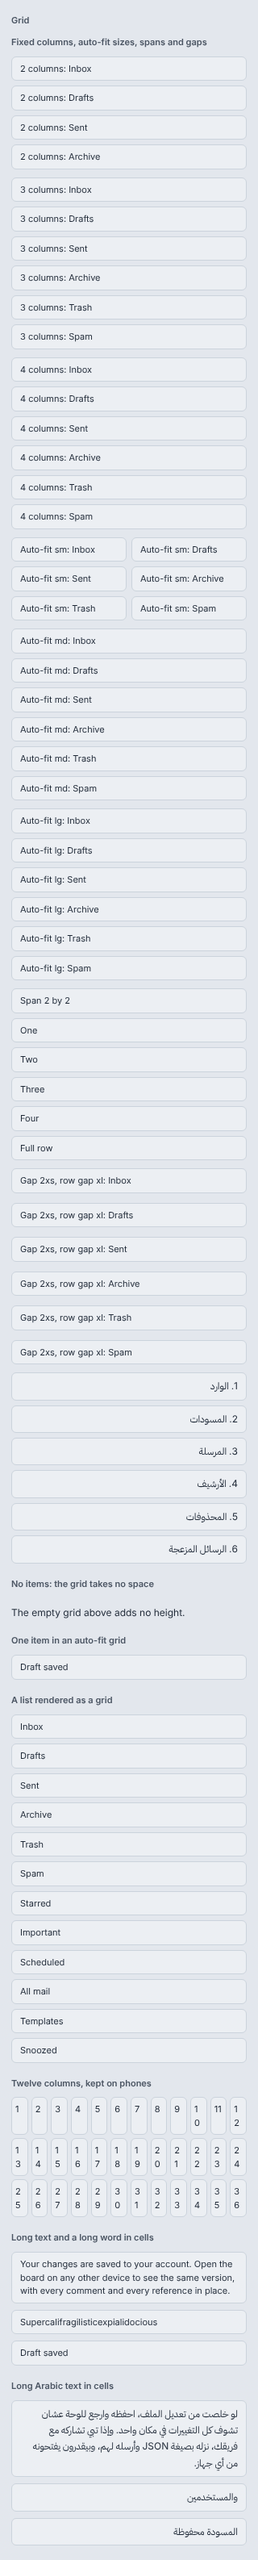
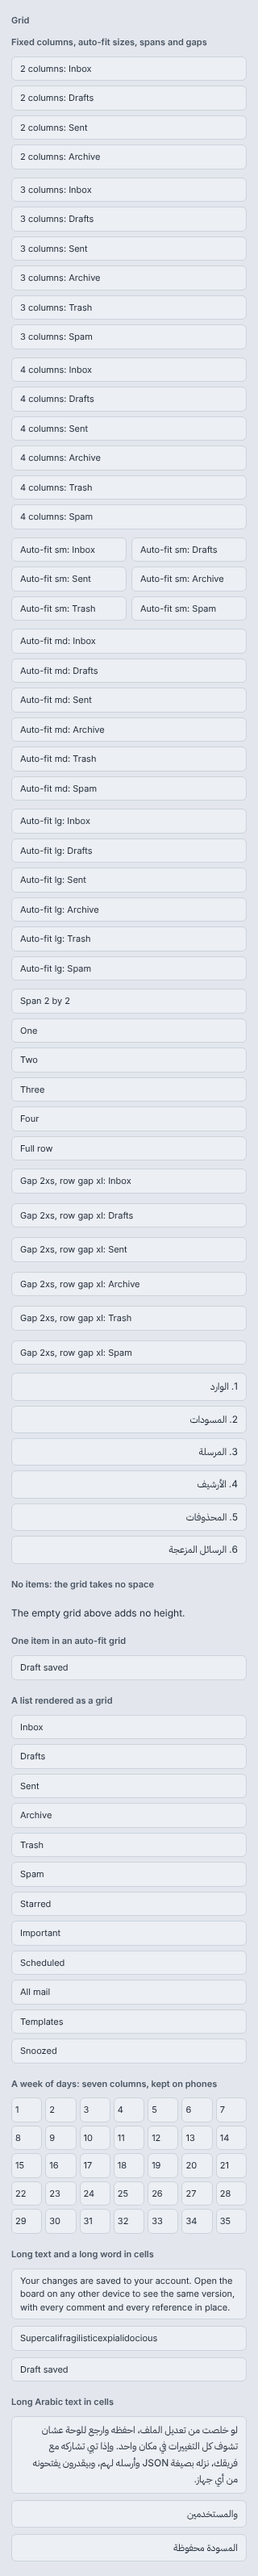
lane-8a: review fixes for Grid, Container, AspectRatio, Separator; report
Claude-Session: https://claude.ai/code/session_01ErLBsatk6FvhTqt28raxGW

diff --git a/packages/react/src/components/AspectRatio/AspectRatio.demo.tsx b/packages/react/src/components/AspectRatio/AspectRatio.demo.tsx
@@ -27,11 +27,6 @@ function Picture({ fit, label }: { fit: 'cover' | 'contain'; label: string }) {
   );
 }
 
-/** A grid cell that does not stretch: Radix puts a wrapper div around the root, and a stretched wrapper loses the ratio. */
-function Cell({ children }: { children: ReactNode }) {
-  return <div style={{ alignSelf: 'start', minInlineSize: 0 }}>{children}</div>;
-}
-
 /** Caps a single example at a phone width so it fits the screenshot. */
 function Narrow({ children }: { children: ReactNode }) {
   return <div style={{ maxInlineSize: 'var(--ds-breakpoint-phone)' }}>{children}</div>;
@@ -45,41 +40,29 @@ export default function AspectRatioDemo() {
   return (
     <DemoPage>
       <DemoCase id="variants" title="Ratios and fit">
-        <DemoGrid min="var(--ds-menu-width-min)">
+        <DemoGrid min="calc(var(--ds-breakpoint-phone) / 3)">
           {ratios.map(([name, ratio]) => (
-            <Cell key={name}>
-              <Cell>
-                <AspectRatio ratio={ratio}>
+                <AspectRatio key={name} ratio={ratio}>
                   <Fill>{name}</Fill>
                 </AspectRatio>
-              </Cell>
-            </Cell>
           ))}
         </DemoGrid>
-        <DemoGrid min="var(--ds-menu-width-min)">
-          <Cell>
+        <DemoGrid min="calc(var(--ds-breakpoint-phone) / 3)">
             <AspectRatio ratio={16 / 9} fit="cover">
               <Picture fit="cover" label="A circle, cropped to fill the box" />
             </AspectRatio>
-          </Cell>
-          <Cell>
             <AspectRatio ratio={16 / 9} fit="contain">
               <Picture fit="contain" label="A circle, letterboxed inside the box" />
             </AspectRatio>
-          </Cell>
         </DemoGrid>
         <Theme dir="rtl" lang="ar">
-          <DemoGrid min="var(--ds-menu-width-min)">
-            <Cell>
+          <DemoGrid min="calc(var(--ds-breakpoint-phone) / 3)">
               <AspectRatio ratio={4 / 3}>
                 <Fill>صورة الغلاف</Fill>
               </AspectRatio>
-            </Cell>
-            <Cell>
               <AspectRatio ratio={1}>
                 <Fill>صورة الملف</Fill>
               </AspectRatio>
-            </Cell>
           </DemoGrid>
         </Theme>
       </DemoCase>
@@ -101,34 +84,26 @@ export default function AspectRatioDemo() {
       <DemoCase id="many" title="A gallery of square thumbnails">
         <DemoGrid min="var(--ds-space-12xl)">
           {sample.en.items.map((t) => (
-            <Cell key={t}>
-              <Cell>
-                <AspectRatio ratio={1}>
+                <AspectRatio key={t} ratio={1}>
                   <Fill>{t}</Fill>
                 </AspectRatio>
-              </Cell>
-            </Cell>
           ))}
         </DemoGrid>
       </DemoCase>
 
       <DemoCase id="long-text" title="Text longer than the box is clipped, not grown">
-        <DemoGrid min="var(--ds-menu-width-min)">
-          <Cell>
+        <DemoGrid min="calc(var(--ds-breakpoint-phone) / 3)">
             <AspectRatio ratio={16 / 9}>
               <Fill>{sample.en.long}</Fill>
             </AspectRatio>
-          </Cell>
         </DemoGrid>
       </DemoCase>
 
       <DemoCase id="long-arabic" title="Arabic caption in a ratio box" lang="ar">
-        <DemoGrid min="var(--ds-menu-width-min)">
-          <Cell>
+        <DemoGrid min="calc(var(--ds-breakpoint-phone) / 3)">
             <AspectRatio ratio={4 / 3}>
-              <Fill>{sample.ar.short}</Fill>
+              <Fill>{sample.ar.long}</Fill>
             </AspectRatio>
-          </Cell>
         </DemoGrid>
       </DemoCase>
     </DemoPage>

diff --git a/packages/react/src/components/Separator/Separator.demo.tsx b/packages/react/src/components/Separator/Separator.demo.tsx
@@ -11,14 +11,14 @@ export default function SeparatorDemo() {
     <DemoPage>
       <DemoCase id="variants" title="Orientation, decorative or semantic, and a label">
         <DemoRow label="Horizontal, decorative">
-          <Stack gap="s" style={{ flex: '1 1 0' }}>
+          <Stack gap="s" style={{ flex: '1 1 0', minInlineSize: 0 }}>
             <DemoBox>Account</DemoBox>
             <Separator />
             <DemoBox>Billing</DemoBox>
           </Stack>
         </DemoRow>
         <DemoRow label="Horizontal, semantic">
-          <Stack gap="s" style={{ flex: '1 1 0' }}>
+          <Stack gap="s" style={{ flex: '1 1 0', minInlineSize: 0 }}>
             <DemoBox>Account</DemoBox>
             <Separator decorative={false} />
             <DemoBox>Billing</DemoBox>
@@ -73,7 +73,7 @@ export default function SeparatorDemo() {
       </DemoCase>
 
       <DemoCase id="many" title="Groups of a menu">
-        <Stack gap="2xs" style={{ maxInlineSize: 'var(--ds-menu-width-min)' }}>
+        <Stack gap="2xs" style={{ maxInlineSize: 'calc(var(--ds-breakpoint-phone) / 2)' }}>
           {groups.map((group, i) => (
             <Stack key={group.join()} gap="2xs">
               {i > 0 && <Separator decorative={false} />}

diff --git a/packages/css/src/components/Separator.css b/packages/css/src/components/Separator.css
@@ -63,8 +63,9 @@
     border-inline-start-width: var(--_separator-thickness);
   }
 
+  /* The label takes what it needs and the lines shrink, never past the row. */
   [data-ds='separator'] > [data-part='label'] {
-    flex: none;
+    flex: 0 1 auto;
     max-inline-size: 100%;
     color: var(--ds-color-text-muted);
     font-family: var(--ds-font-family-sans);
@@ -72,11 +73,6 @@
     line-height: var(--ds-font-leading-snug);
     overflow-wrap: anywhere;
     text-align: center;
-  }
-
-  /* A long label takes what it needs and the lines shrink, never past the row. */
-  [data-ds='separator'][data-orientation='horizontal'] > [data-part='label'] {
-    flex: 0 1 auto;
   }
 
   @media (forced-colors: active) {

diff --git a/packages/react/src/components/Container/Container.tsx b/packages/react/src/components/Container/Container.tsx
@@ -15,7 +15,7 @@ export type ContainerWidth = 'sm' | 'md' | 'lg' | 'xl' | 'full';
 export type ContainerElement = 'div' | 'main' | 'section' | 'article' | 'header' | 'footer';
 
 export interface ContainerProps extends HTMLAttributes<HTMLElement> {
-  /** The max inline size: sm 30rem, md 48rem, lg 68.75rem, xl about 86rem, full no cap. Default lg. */
+  /** The max inline size: sm 30rem, md 48rem, lg 68.75rem, xl about 84rem, full no cap. Default lg. */
   width?: ContainerWidth;
   /** The space on both inline sides, a `space.*` step. Default 3xl: 16px on phones in the default density. */
   gutter?: SpaceStep;

diff --git a/packages/css/src/components/AspectRatio.css b/packages/css/src/components/AspectRatio.css
@@ -12,6 +12,16 @@
     box-sizing: border-box;
   }
 
+  /*
+   * React only: Radix wraps the root in a ratio box (data-radix-aspect-ratio-wrapper),
+   * and that wrapper is the item a grid or flex row stretches. Keep it at its
+   * own height so the ratio holds next to a taller sibling. Angular sets the
+   * native aspect-ratio on the root and has no wrapper, so this never matches there.
+   */
+  [data-radix-aspect-ratio-wrapper]:has(> [data-ds='aspect-ratio']) {
+    align-self: start;
+  }
+
   [data-ds='aspect-ratio'][data-fit='contain'] {
     --_aspect-ratio-fit: contain;
   }

diff --git a/packages/react/src/components/Grid/Grid.demo.tsx b/packages/react/src/components/Grid/Grid.demo.tsx
@@ -70,9 +70,9 @@ export default function GridDemo() {
         </Grid>
       </DemoCase>
 
-      <DemoCase id="too-many" title="Twelve columns, kept on phones">
-        <Grid columns={12} gap="2xs" keepColumns>
-          {Array.from({ length: 36 }, (_, i) => (
+      <DemoCase id="too-many" title="A week of days: seven columns, kept on phones">
+        <Grid columns={7} gap="2xs" keepColumns>
+          {Array.from({ length: 35 }, (_, i) => (
             <DemoBox key={i} style={{ paddingInline: 'var(--ds-space-2xs)' }}>
               {String(i + 1)}
             </DemoBox>

diff --git a/packages/css/src/components/Container.css b/packages/css/src/components/Container.css
@@ -28,7 +28,7 @@
     --_container-max: var(--ds-breakpoint-tablet);
   }
 
-  /* xl: desktop plus half a phone width, about 86rem. */
+  /* xl: desktop plus half a phone width, about 84rem. */
   [data-ds='container'][data-width='xl'] {
     --_container-max: calc(var(--ds-breakpoint-desktop) + var(--ds-breakpoint-phone) / 2);
   }

diff --git a/docs/reports/lanes/lane-8a.md b/docs/reports/lanes/lane-8a.md
@@ -108,10 +108,12 @@ Decisions:
 
 - Radix AspectRatio renders a wrapper div around the root. That wrapper is
   what a grid or flex parent stretches, and a stretched wrapper loses the
-  ratio. The demo wraps each box in a cell with `align-self: start`, and the
-  manifest lists the trap under `mistakes`. The shared CSS does not style the
-  Radix wrapper (a React detail; Angular will set native `aspect-ratio` on
-  the host and has no wrapper).
+  ratio. `AspectRatio.css` sets `align-self: start` on
+  `[data-radix-aspect-ratio-wrapper]:has(> [data-ds='aspect-ratio'])`. This is
+  the one selector in the lane that names a React detail. It never matches in
+  Angular, which will set native `aspect-ratio` on the host and has no wrapper.
+- `fit` (`cover`, `contain`) is a prop the order does not list. I added it
+  because media that fills a ratio box always needs crop or letterbox.
 - The manifest names the native `aspect-ratio` property as the plain
   alternative under `avoidWhen`, `insteadUse` and `mistakes`.
 
@@ -156,7 +158,7 @@ Decisions:
 
 - No layout widths. Container widths are `breakpoint.phone`,
   `breakpoint.tablet`, `breakpoint.desktop` and `desktop + phone / 2` (xl,
-  about 86rem). Grid minimums are `phone / 3` (sm, 10rem), `phone / 2` (md,
+  about 84rem). Grid minimums are `phone / 3` (sm, 10rem), `phone / 2` (md,
   15rem) and `tablet / 2` (lg, 24rem). Both sit behind private properties
   (`--_container-max`, `--_grid-min`), so a token swap is one line each.
 - No page gutter token: Container defaults to `space.3xl`, which is 16px on
@@ -175,7 +177,25 @@ barrel (see changes needed); English demo sentences show the full stop on the
 wrong side in the rtl gallery screenshots (the demo kit renders English copy
 in an rtl Theme; a gallery matter).
 
-REVIEW_ROUND_2
+Grid, Container, AspectRatio and Separator, one round. Fixed: the
+AspectRatio blocker (the wrapper stretched in a grid; now fixed in CSS, so
+the demo no longer needs cell wrappers); the AspectRatio long-arabic case
+used the short sample; demos borrowed `menu.width-min` (now breakpoint
+derived); the Container xl size is about 84rem, not 86rem; the Grid too-many
+case is 7 kept columns, a week, not 12, so two-digit numbers no longer split at 320px;
+a mistake entry for spans larger than kept columns; the Separator label flex
+rule is set once; the Separator demo rows line up.
+
+Left open (notes): `data-keep-columns` (Grid) and `data-wrap` (Stack) are
+listed under `states` although the orders list none; they are boolean
+attributes and the contract suite checks them as such. Private property
+names outside the convention's list (`--_grid-columns`, `--_grid-min`,
+`--_grid-template`, `--_grid-item-span`, `--_grid-item-row-span`,
+`--_container-max`, `--_aspect-ratio-fit`, `--_separator-thickness`) are
+layout plumbing with no listed name. The phone media query uses the literal
+with the `breakpoint.phone` comment, as the token's own description says.
+Nobody measured `color.border.control` at 3:1 on every surface. The contrast
+gate covers it for controls (`color.border.control over $bg`).
 
 ## Changes needed from the lead
 
@@ -187,13 +207,14 @@ REVIEW_ROUND_2
    `packages/react/src/components/Stack/index.ts`. Lane 8B (Surface padding)
    needs the same type.
 2. Add layout tokens to `packages/tokens/src/base/size.json`:
-   `size.container.sm` 30rem, `.md` 48rem, `.lg` 68.75rem, `.xl` 86rem;
+   `size.container.sm` 30rem, `.md` 48rem, `.lg` 68.75rem, `.xl` 84rem;
    `size.grid.item-min.sm` 10rem, `.md` 15rem, `.lg` 24rem; and
    `space.gutter` (16px at phone width in every density). Then in
    `Container.css` set `--_container-max: var(--ds-size-container-<w>)` and in
    `Grid.css` `--_grid-min: var(--ds-size-grid-item-min-<s>)`.
-3. Record in `DECISIONS.md` the layout data attributes listed above, and
-   that layout components omit `motion`.
+3. Record in `DECISIONS.md` the layout data attributes listed above, that
+   layout components omit `motion`, and extend the private property names in
+   `docs/contracts/anatomy.md` rule 1 with the layout plumbing names above.
 4. Record that Container's width prop is `width`, not the order's `size`.
 
 ## What I could not do
